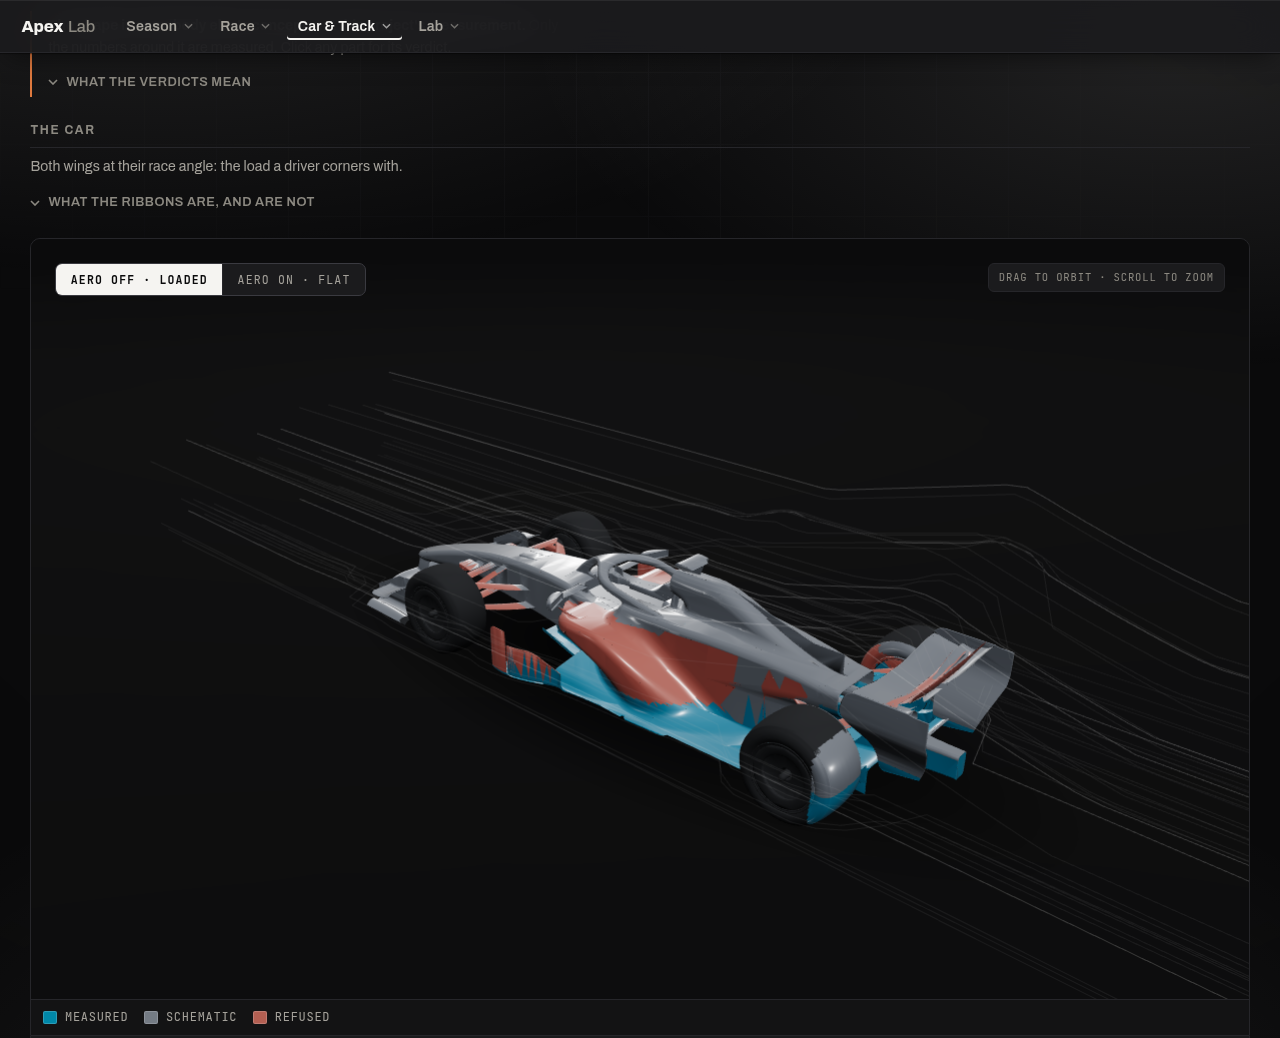
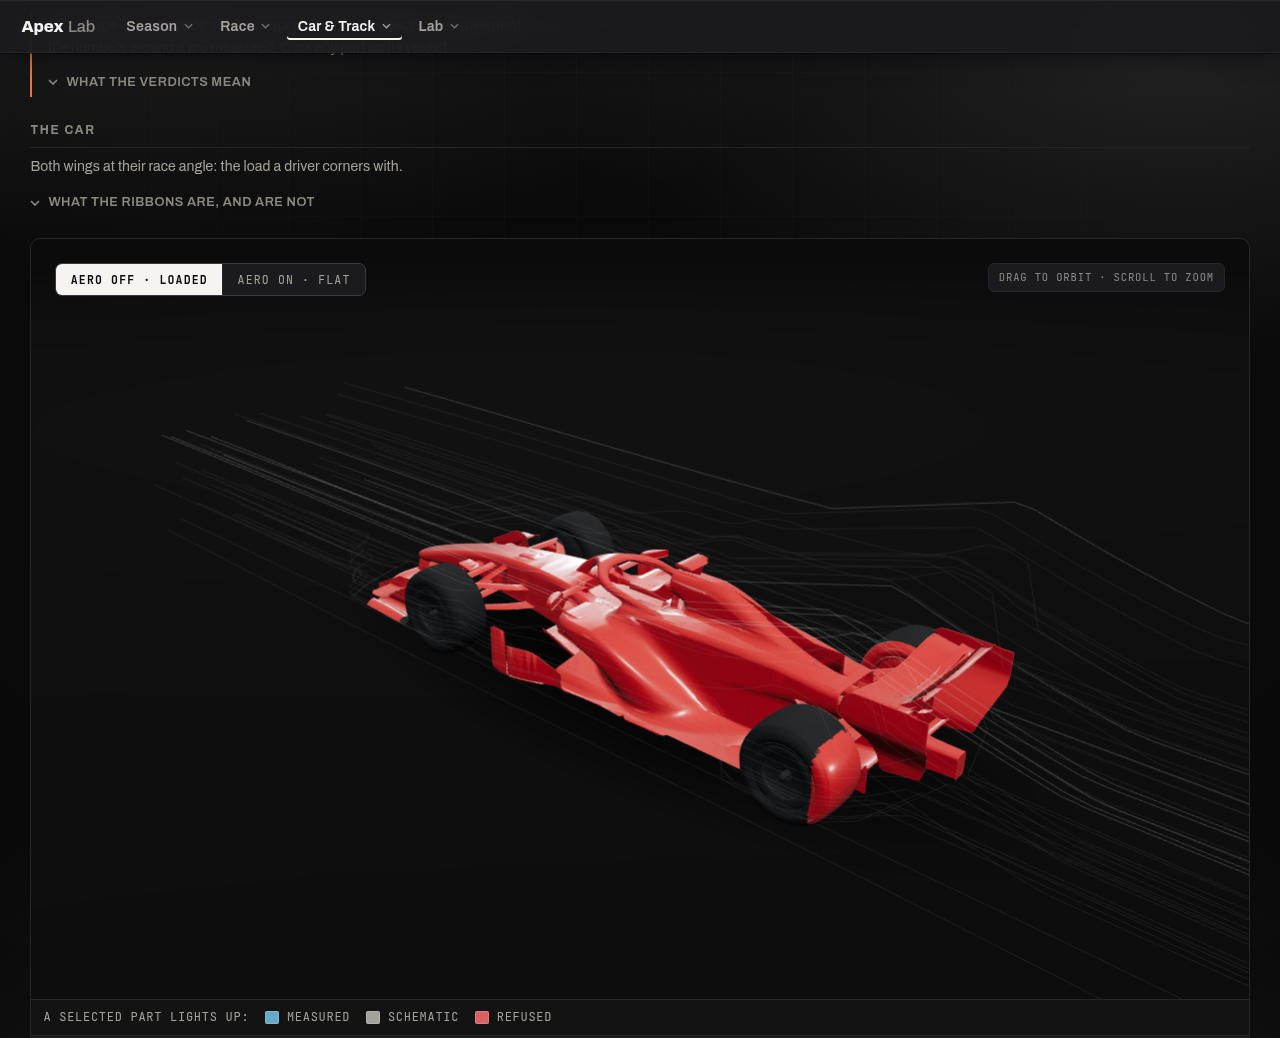
Paint the car one bright red, and move the verdict to the selection
Asked for: a full, bright red car. The rig's bodywork is now one colour
— OKLCH L 0.62 C 0.225 h 29, near the top of what this hue reaches in
sRGB at that lightness, 100 dE76 from the chamber behind it — picked by
rendering the rig headless rather than from a swatch, because ACES
filmic tone mapping at 0.95 exposure is what made the last two attempts
at these values render duller than they looked.

What that costs, and what was done about it. The paint used to carry
each part's verdict, three base colours, so the car showed at a glance
how little of it is measured. A car that is one colour cannot also be
three, so that cue now lives entirely in the selection: clicking a part
lights it in its verdict's colour, and the readout and badge name it.
Two things follow, and both are in this commit rather than left for
someone to notice:

- The legend under the chamber claimed the car's colours meant the
  verdicts. It now says what it actually keys — the colour a selected
  part lights up in — and its swatches are repointed from the old paint
  tokens to the verdict steps the readout's badge already uses, so the
  strip and the badge cannot disagree.

- The refused step is itself a red, so on a red car that one class
  lights red on red. At the old emissive of 0.5 a selected sidepod was
  invisible and the camera move was the only sign anything had been
  picked. The lift is now 1.15, which is hue-independent and so answers
  for the class whose verdict colour is the body colour.
[…]

diff --git a/src/theme/tokens.css b/src/theme/tokens.css
@@ -195,69 +195,48 @@
    * 4.5:1 that size of type needs: measured is 7.13:1 on the dark
    * surface and, re-stepped below, 6.46:1 on the light one.
    *
-   * THE CAR sits in the rig's own chamber, which the scene paints dark
-   * in BOTH themes — so those steps are defined once and deliberately do
-   * not follow the page, because the surface they are read against is
-   * the chamber and not the document.
+   * THE CAR is painted in one colour, and the verdict is shown by
+   * SELECTING a part rather than by the paint. It used to be the other
+   * way round — three base colours, one per verdict, so the car showed
+   * at a glance how little of it was measured — and this is a
+   * deliberate trade: the owner wanted the car red, and a car that is
+   * one colour cannot also be three. Nothing was dropped from what the
+   * page can tell a reader, but one thing moved: the verdict is now in
+   * the readout, the badge and the lit part, and no longer in the paint.
+   * The legend under the chamber was rewritten to match, because a key
+   * that explains a colour the car no longer wears is worse than no key.
    *
-   * The car's steps also hold each part's own lightness and vary only in
-   * hue. Lightness on a shaded 3D surface is already spoken for by the
-   * lighting — the same panel is light where it faces the key and dark
-   * where it turns away — so it cannot also carry a category, whereas
-   * hue survives being lit from any angle.
+   * The red is OKLCH L 0.62 C 0.225 h 29 — near the top of what this
+   * hue reaches in sRGB at that lightness. It was picked by rendering
+   * the rig headless rather than from a swatch, because the rig puts
+   * about 2.4 units of directional light and an image-based environment
+   * through ACES filmic tone mapping at 0.95 exposure, and ACES pulls
+   * mid-tones down and desaturates: a value that looks right as a
+   * swatch renders dull, which is how this car once shipped 29 dE76
+   * from its own near-black chamber and hard to find at all. At this
+   * value it is 100 dE76 from the chamber.
    *
-   * Schematic is the neutral one on purpose. It means the project claims
-   * nothing about that shape, and the absence of a claim should look
-   * like the absence of colour.
+   * ONE CONSEQUENCE WORTH KNOWING. A selected part lights in its
+   * verdict's colour, and the refused step is itself a red, so on a red
+   * car that one class lights red on red. The emissive lift in
+   * aeroRigScene.js was raised from 0.5 to 1.15 for exactly this
+   * reason: brightness is hue-independent, so it still answers for the
+   * class whose verdict colour is now the body colour. At 0.5 a
+   * selected sidepod was invisible and the camera move was the only
+   * sign anything had been picked.
    *
-   * WHY THESE ARE LIGHTER THAN THEY WERE. The three classes used to sit
-   * at CIELAB L* 32 on the theory that the rig's lighting would lift
-   * them — about 2.4 units of directional light plus an image-based
-   * environment, through ACES filmic tone mapping at 0.95 exposure. It
-   * does lift them, but nowhere near that far: ACES is built to pull
-   * mid-tones down and desaturate, and the chamber behind the car is
-   * painted #0b0b0c, so what actually shipped was a car 29 dE76 from
-   * its own background with streamlines drawn brighter than the
-   * bodywork. The silhouette was hard to find and the two claim hues
-   * read as mud. That is a fault in the values, not in the theory of
-   * lighting them.
-   *
-   * So they were re-picked by rendering the rig headless and looking at
-   * the result rather than at swatches, and they are now stated in
-   * OKLCH, which is the space the equal-lightness rule above is
-   * actually true in. All three bodywork classes sit at OKLCH L 0.58
-   * (CIELAB L* 50-52, which is as equal as three different hues get in
-   * a space that is not uniform in lightness across hue). Against the
-   * chamber they are 49, 59 and 60 dE76 — the car is now plainly a lit
-   * object in a dark room.
-   *
-   * THE TWO CLAIMS CARRY THE SAME CHROMA, 0.112 requested in OKLCH,
-   * 0.108 and 0.111 achieved. The cap is the sRGB gamut: cyan at this
-   * lightness runs out of chroma around 0.11, and the red was matched
-   * down to it rather than left louder. Nothing on this page is more
-   * important than what the project can measure, so "refused" must not
-   * be the colour that carries the eye. Separation between classes, in
-   * dE76: 28 schematic-to-measured, 42 schematic-to-refused, 70
-   * measured-to-refused.
-   *
-   * THE TYRE IS EXEMPT, and stays neutral at every verdict. Rubber has
-   * to be dark and colourless to read as rubber, and the wheel is a big
-   * enough mass that tinting it made the tint the subject of the picture
-   * instead of the car. Its verdict is still reachable — it lights up
-   * when selected, and the readout names it — but at rest the wheel is
-   * the one part of thirteen whose class the car does not show. It is
-   * still lifted off the chamber with everything else, OKLCH L 0.32
-   * against the bodywork's 0.58: dark enough to read as rubber, 18 dE76
-   * from the background instead of the 13 that made a tyre on the far
-   * side of the car indistinguishable from the room. */
+   * THE TYRE stays neutral and dark, OKLCH L 0.32 against the body's
+   * 0.58. Rubber has to be dark and colourless to read as rubber, and
+   * the wheel is a big enough mass that painting it the body colour
+   * would make the car a single red mass with no parts in it. It is
+   * still lifted off the chamber — 18 dE76, against the 13 that made a
+   * tyre on the far side of the car indistinguishable from the room. */
   --verdict-measured: #65a9c8;
   --verdict-schematic: var(--ink-1);
   --verdict-refused: var(--status-critical);
 
   /* OKLCH, so a later re-pick starts from the recipe and not the hex. */
-  --rig-schematic: #747b84; /* L 0.58  C 0.016  h 255 */
-  --rig-measured: #0088a9; /* L 0.58  C 0.112  h 222 (gamut-clipped to 0.108) */
-  --rig-refused: #b35f52; /* L 0.58  C 0.112  h  30 */
+  --rig-body: #ef3227; /* L 0.62  C 0.225  h  29 (gamut-clipped) */
   --rig-tyre: #313336; /* L 0.32  C 0.006  h 255 */
 
   /* Podium. Sport semantics — finishing position, not team identity,

diff --git a/src/lib/aeroRigScene.js b/src/lib/aeroRigScene.js
@@ -266,17 +266,17 @@ export function createAeroRig(
      GLB's thirteen materials is used. They are replaced, and disposed,
      the moment the model lands.
 
-     What replaces them says something instead. Each part already
-     carries a verdict — measured, schematic or refused — which is the
-     whole reason the car is clickable, and that verdict is now what
-     colours it. A reader can see, before clicking anything, that most
-     of this car is a drawn shape and only a few parts are things this
-     site can actually measure.
+     What replaces them is this project's own single body colour, and
+     the tyre's own dark rubber. The paint used to carry each part's
+     verdict — measured, schematic or refused, three base colours, so
+     the car showed at a glance how little of it was measured — and
+     that cue now lives entirely in the selection: clicking a part
+     lights it in its verdict's colour, and the readout and badge name
+     it. See the tokens for the trade that was made and why the legend
+     under the chamber was rewritten with it.
 
      Two material families, because a tyre that is coloured like
-     bodywork stops looking like a tyre. Within each family the three
-     verdicts differ in hue at the same lightness — see the tokens for
-     why lightness cannot be the cue on a lit 3D surface.
+     bodywork stops looking like a tyre.
 
      One material instance per mesh rather than one per class, so that
      selecting a part can light that part alone. Thirteen materials is
@@ -288,13 +288,15 @@ export function createAeroRig(
   function verdictColours(part) {
     const verdict = VERDICT_TOKEN[verdicts[part]] ?? 'schematic';
     return {
-      // The tyre keeps rubber's own colourless dark at every verdict —
-      // see the tokens for why it is the one exemption.
-      base: TYRE_PARTS.has(part) ? cssToken('--rig-tyre') : cssToken(`--rig-${verdict}`),
-      // The full-strength step, used only to light a selected part. The
-      // tyre does get this: a selection is momentary and deliberate, so
-      // it can afford to stop looking like rubber for as long as it is
-      // the thing being asked about.
+      // One body colour for every panel; the tyre keeps rubber's own
+      // colourless dark — see the tokens for why it is the exemption.
+      base: cssToken(TYRE_PARTS.has(part) ? '--rig-tyre' : '--rig-body'),
+      // The full-strength verdict step, used to light a selected part.
+      // With the paint no longer carrying the verdict this is the only
+      // place the car itself shows one, so it is doing more work than it
+      // was. The tyre gets it too: a selection is momentary and
+      // deliberate, so it can afford to stop looking like rubber for as
+      // long as it is the thing being asked about.
       lit: cssToken(`--verdict-${verdict}`),
     };
   }
@@ -688,7 +690,14 @@ export function createAeroRig(
     for (const entry of carMaterials) {
       const on = entry.part === part;
       entry.material.emissive.set(on ? verdictColours(entry.part).lit : 0x000000);
-      entry.material.emissiveIntensity = on ? 0.5 : 0;
+      // Bright enough to be a cue on its own, because hue can no longer
+      // be one. At 0.5 this worked while the car was three colours: a
+      // selected part changed hue as well as brightness. On a red car a
+      // refused part lights in red on red and 0.5 was invisible — the
+      // zoom was the only sign anything had been selected. The lift is
+      // hue-independent, so it answers for the one class whose verdict
+      // colour is the body colour.
+      entry.material.emissiveIntensity = on ? 1.15 : 0;
     }
   }
 

diff --git a/src/pages/AeroRig.jsx b/src/pages/AeroRig.jsx
@@ -200,12 +200,17 @@ export default function AeroRig() {
             <span className="rig-hint rig-hint-drag">drag to orbit · scroll to zoom</span>
             <span className="rig-hint rig-hint-touch">drag to orbit · pinch to zoom</span>
           </div>
-          {/* The key to the car's own colours. It is not decoration: the
-              car is painted by verdict, and a colour that encodes
-              something and is never named is a colour a reader cannot
-              use. Three words, because the Method above already explains
-              what each one means. */}
-          <ul className="rig-verdict-key" aria-label="What the car's colours mean">
+          {/* The key to the three verdicts, and to the colour a part
+              lights up in when it is selected. The car itself is one
+              colour now, so this key no longer describes the paint —
+              it describes what a click answers with, which is where
+              the verdict lives. A colour that encodes something and is
+              never named is a colour a reader cannot use, and that is
+              as true of the lit state as it was of the paint. Three
+              words, because the Method above already explains what
+              each one means. */}
+          <ul className="rig-verdict-key" aria-label="What a selected part's colour means">
+            <li className="rig-key-lead mono">a selected part lights up:</li>
             {[['m', 'measured'], ['s', 'schematic'], ['r', 'refused']].map(([kind, label]) => (
               <li key={kind}>
                 <span className={`rig-key-swatch is-${kind}`} />

diff --git a/src/theme/base.css b/src/theme/base.css
@@ -2691,16 +2691,27 @@ tbody tr.is-on {
   box-shadow: inset 0 0 0 1px rgb(255 255 255 / 18%);
 }
 
+/* The swatches now show the verdict steps a SELECTED part lights up in,
+   not the car's paint — the car is one colour. These are the same steps
+   the readout's badge uses, which is the point: the strip and the badge
+   have to agree. */
 .rig-key-swatch.is-m {
-  background: var(--rig-measured);
+  background: var(--verdict-measured);
 }
 
 .rig-key-swatch.is-s {
-  background: var(--rig-schematic);
+  background: var(--verdict-schematic);
 }
 
 .rig-key-swatch.is-r {
-  background: var(--rig-refused);
+  background: var(--verdict-refused);
+}
+
+/* Reads as a sentence rather than a fourth swatch, so the strip says
+   what the three colours are for instead of leaving it implied. */
+.rig-key-lead {
+  color: var(--ink-2);
+  letter-spacing: 0.06em;
 }
 
 @media (max-width: 640px) {

diff --git a/README.md b/README.md
@@ -227,11 +227,14 @@ Qvist_designs, [CC-BY-4.0](http://creativecommons.org/licenses/by/4.0/) —
 decimated and re-cut into this page's own parts, and the page says so
 where a reader will see it.
 
-Its colours are this project's, not the donor's and not any team's: each
-part is painted by what the project can say about it — teal where a real
-number backs it, graphite where only the geometry is known, red where
-nothing published gives this site a way to say anything. The legend
-under the chamber is the whole key.
+Its colour is this project's own, and the donor's baked-in livery and
+camera paint are thrown away with its thirteen materials the moment the
+model lands. The verdict each part carries — a real number behind it,
+only its geometry known, or nothing published to measure it with — is
+shown by selecting the part: it lights in that verdict's colour, the
+readout names it, and the strip under the chamber is the key. The paint
+carried that cue until the car became one colour; the trade is written
+down in `src/theme/tokens.css`.
 
 ![The Aero Rig: the car painted by what is known about each part](docs/screenshots/car.png)
 
